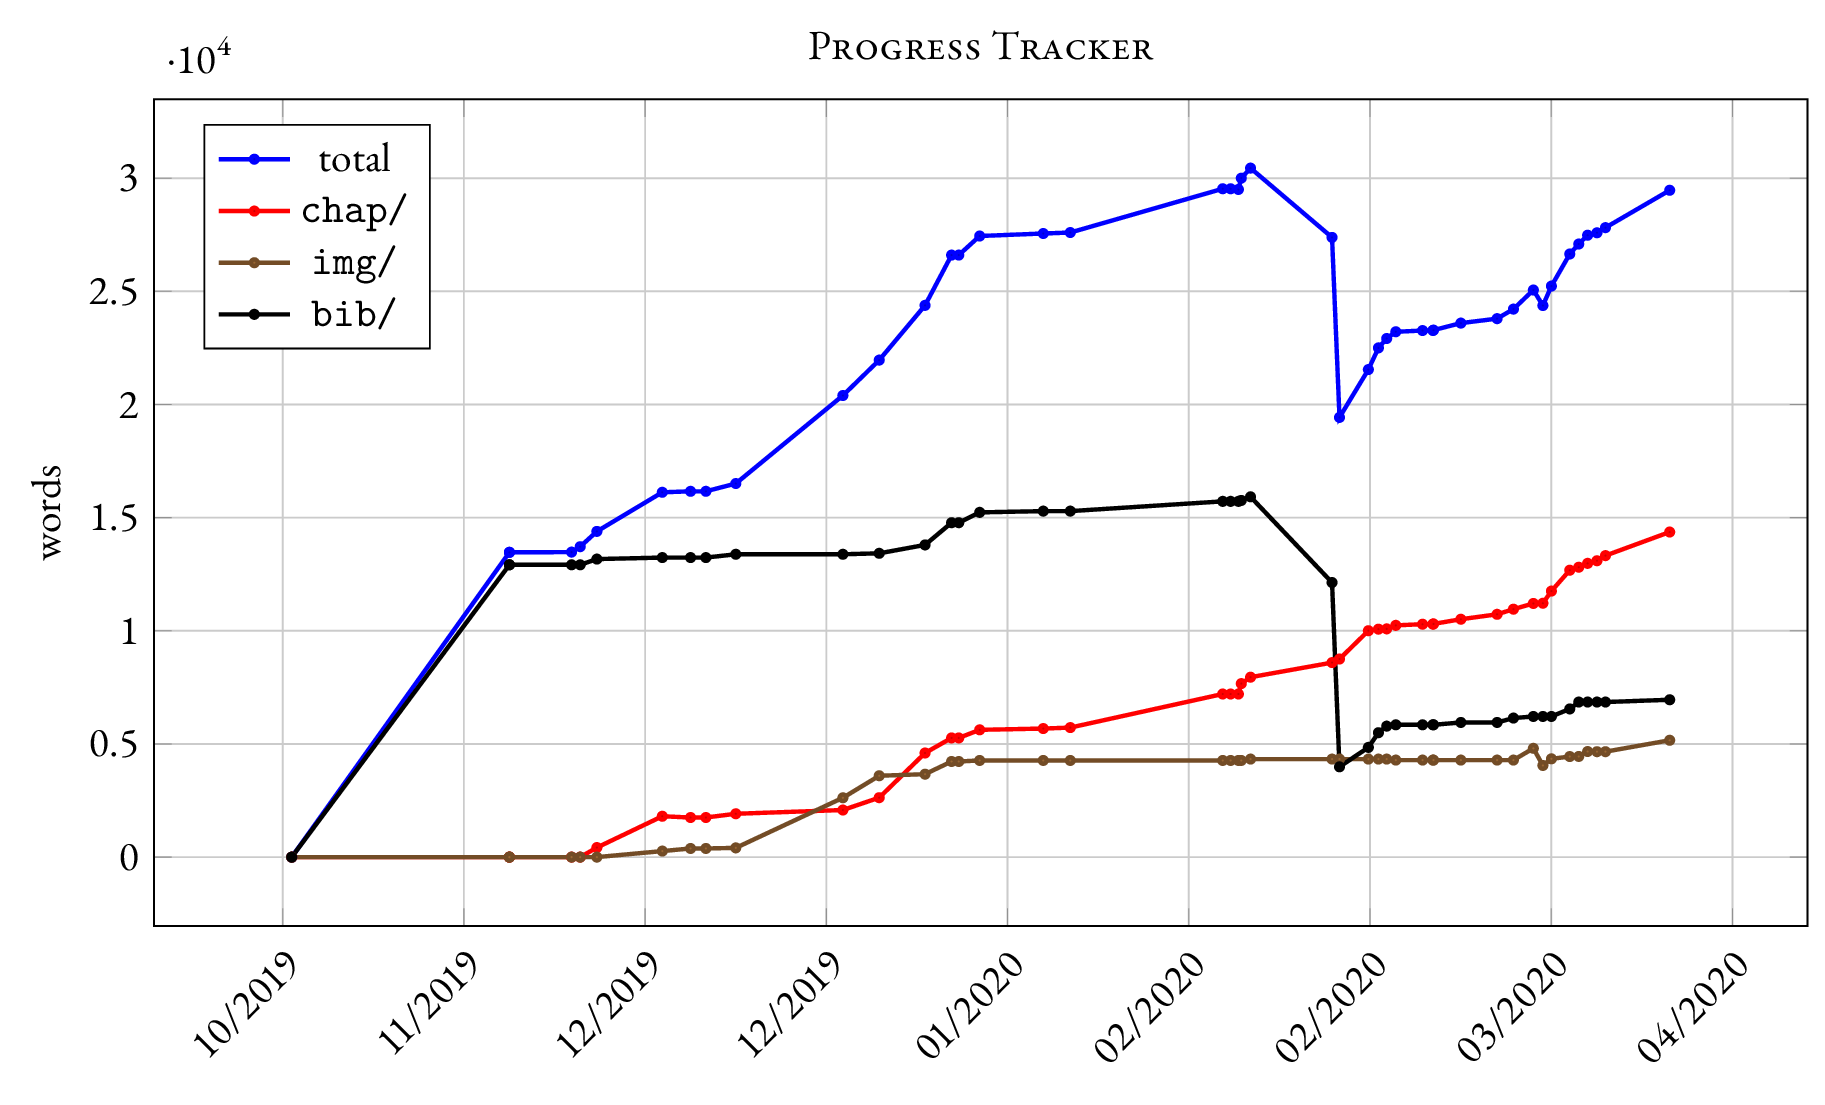
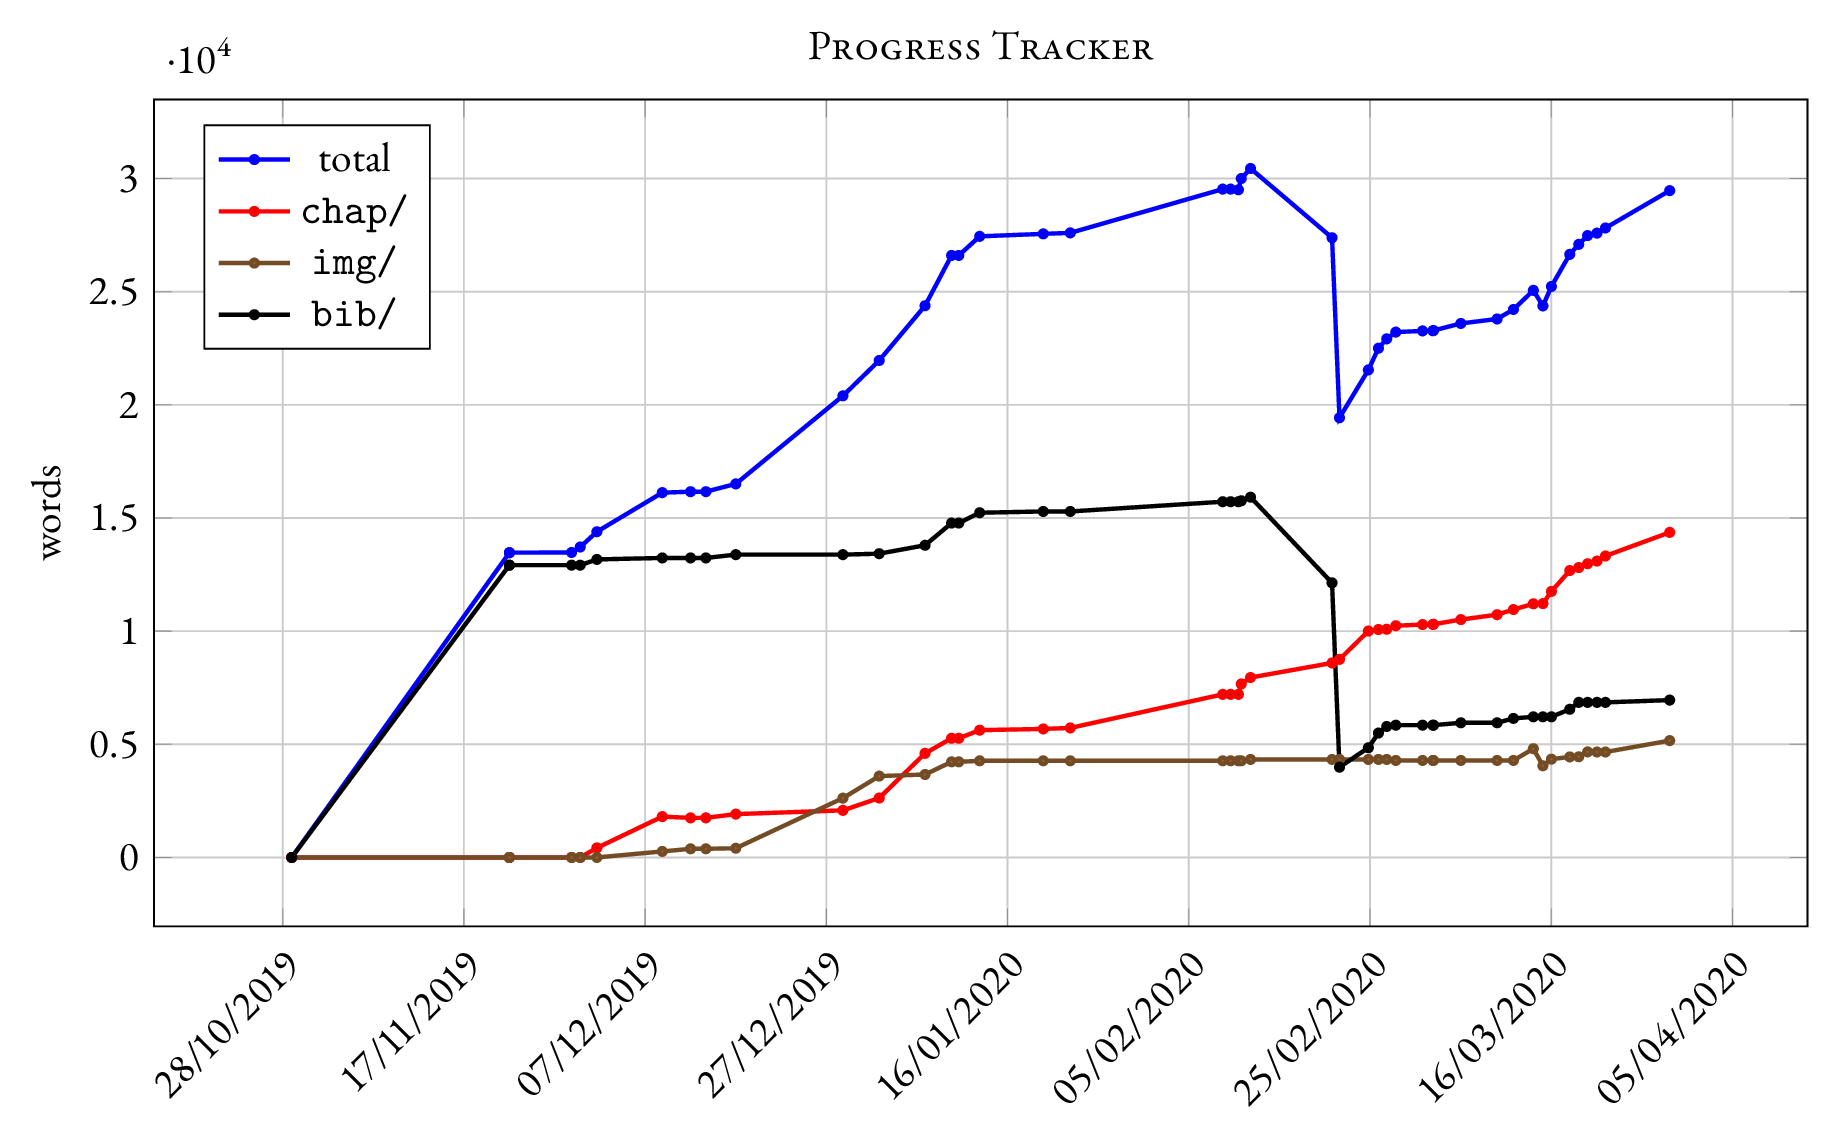
[pertoldi@lxpertoldi.pd.infn.it] Sun Mar 29 17:57:36 CEST 2020

diff --git a/.github/progress.tex b/.github/progress.tex
@@ -42,7 +42,8 @@
       grid=major,
       table/col sep=comma,
       date coordinates in=x,
-      xticklabel={\month/\year},
+      % xtick distance=15,
+      xticklabel={\day/\month/\year},
       % xmin=2011-10-01, xmax=2020-02-01,
       xticklabel style={rotate=45, anchor=north east},
       legend pos=north west]
